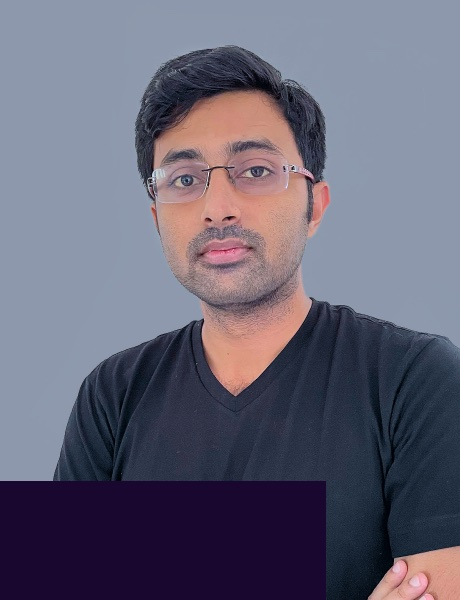
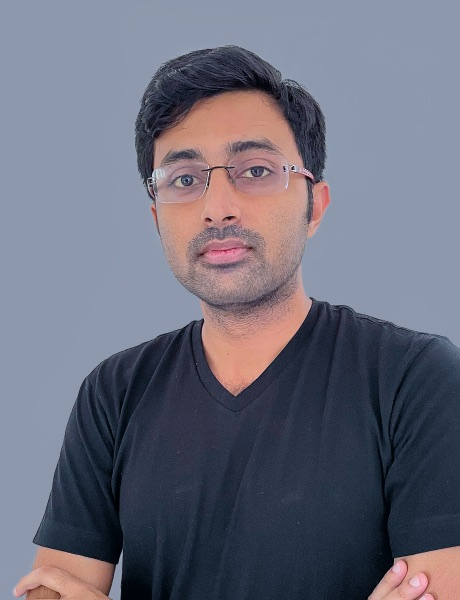
Added team members to landing page

Changed region(s): [[0.0, 0.78, 0.7304, 1.0]]

diff --git a/pages/index.js b/pages/index.js
@@ -1227,7 +1227,6 @@ export default function Landing() {
             <img className={styles.teamImage} src="/parth.jpg" loading="lazy" />
             <div className={styles.teamLabel}>
               <div className={styles.teamName}>Parth Oberoi</div>
-              <div className={styles.teamDesig}>CEO & Founder</div>
             </div>
           </div>
           <div className={"block row-span-1 " + styles.bufferCard}></div>
@@ -1235,7 +1234,6 @@ export default function Landing() {
             <img className={styles.teamImage} src="/faza.jpg" loading="lazy" />
             <div className={styles.teamLabel}>
               <div className={styles.teamName}>Faza Mahamood</div>
-              <div className={styles.teamDesig}>CTO & Founder</div>
             </div>
           </div>
           <div className={"row-span-4 " + styles.teamCard}>
@@ -1246,7 +1244,6 @@ export default function Landing() {
             />
             <div className={styles.teamLabel}>
               <div className={styles.teamName}>Snehil Buxy</div>
-              <div className={styles.teamDesig}>Senior Developer</div>
             </div>
           </div>
           <div className={"row-span-4 " + styles.teamCard}>
@@ -1257,14 +1254,28 @@ export default function Landing() {
             />
             <div className={styles.teamLabel}>
               <div className={styles.teamName}>Kushagra Singh</div>
-              <div className={styles.teamDesig}>Marketing</div>
             </div>
           </div>
           <div className={"row-span-4 " + styles.teamCard}>
             <img className={styles.teamImage} src="/stian.jpg" loading="lazy" />
             <div className={styles.teamLabel}>
               <div className={styles.teamName}>Stian Sandsgaard</div>
-              <div className={styles.teamDesig}>Design</div>
+            </div>
+          </div>
+          <div className={"row-span-4 " + styles.teamCard}>
+            <img
+              className={styles.teamImage}
+              src="/hariom.jpg"
+              loading="lazy"
+            />
+            <div className={styles.teamLabel}>
+              <div className={styles.teamName}>Hariom Verma</div>
+            </div>
+          </div>
+          <div className={"row-span-4 " + styles.teamCard}>
+            <img className={styles.teamImage} src="/ejaaz.jpg" loading="lazy" />
+            <div className={styles.teamLabel}>
+              <div className={styles.teamName}>Ejaaz Mahamood</div>
             </div>
           </div>
         </div>

diff --git a/styles/landing.module.css b/styles/landing.module.css
@@ -653,13 +653,10 @@
   background: #19072f;
   bottom: 0;
   left: 0;
-  right: 30%;
-  height: 100px;
+  padding: 24px 36px;
 }
 
 .teamName {
-  padding-top: 16px;
-  padding-left: 16px;
   font-size: 32px;
   line-height: 1.5em;
 }
